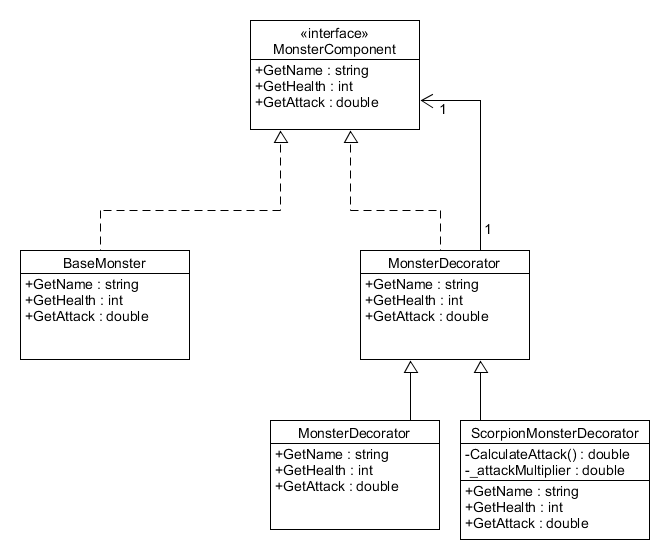
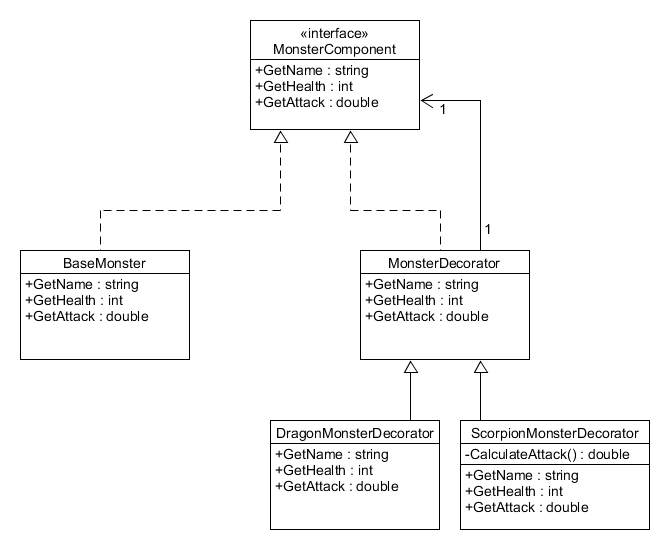
Comments

diff --git a/DecoratorPattern/ScorpionMonsterDecorator.cs b/DecoratorPattern/ScorpionMonsterDecorator.cs
@@ -9,7 +9,7 @@
             this.health = health;
             this.attack = attack;
         }
-
+        //GetName Override
         public override string GetName
         {
             get
@@ -18,16 +18,17 @@
                 return s;
             }
         }
+        //GetHealth Override
         public override int GetHealth
         {
             get { return health + base.GetHealth; }
         }
-
+        //GetAttack Override
         public override double GetAttack
         {
             get { return CalculateAttack() + base.GetAttack; }
         }
-
+        //Help method to calculate the attack based of a modifier
         private double CalculateAttack()
         {
             double _attackMultiplier = 1.5;

diff --git a/DecoratorPattern/DragonMonsterDecorator.cs b/DecoratorPattern/DragonMonsterDecorator.cs
@@ -8,6 +8,8 @@
             this.attack = 100;
             this.health = 1000;
         }
+
+        //GetName Override
         public override string GetName
         {
             get
@@ -16,14 +18,15 @@
                 return s;
             }
         }
+        //GetHealth Override
         public override int GetHealth
         {
             get { return health + base.GetHealth; }
         }
+        //GetAttack Override
         public override double GetAttack
         {
             get { return attack + base.GetAttack; }
         }
-
     }
 }

diff --git a/DecoratorPattern/MonsterComponent.cs b/DecoratorPattern/MonsterComponent.cs
@@ -13,6 +13,7 @@ namespace DecoratorPattern
         string GetName { get;}
         //gets Health of Monster
         int GetHealth { get; }
+        //gets attack of Monster
         double GetAttack { get; }
     }
 }
